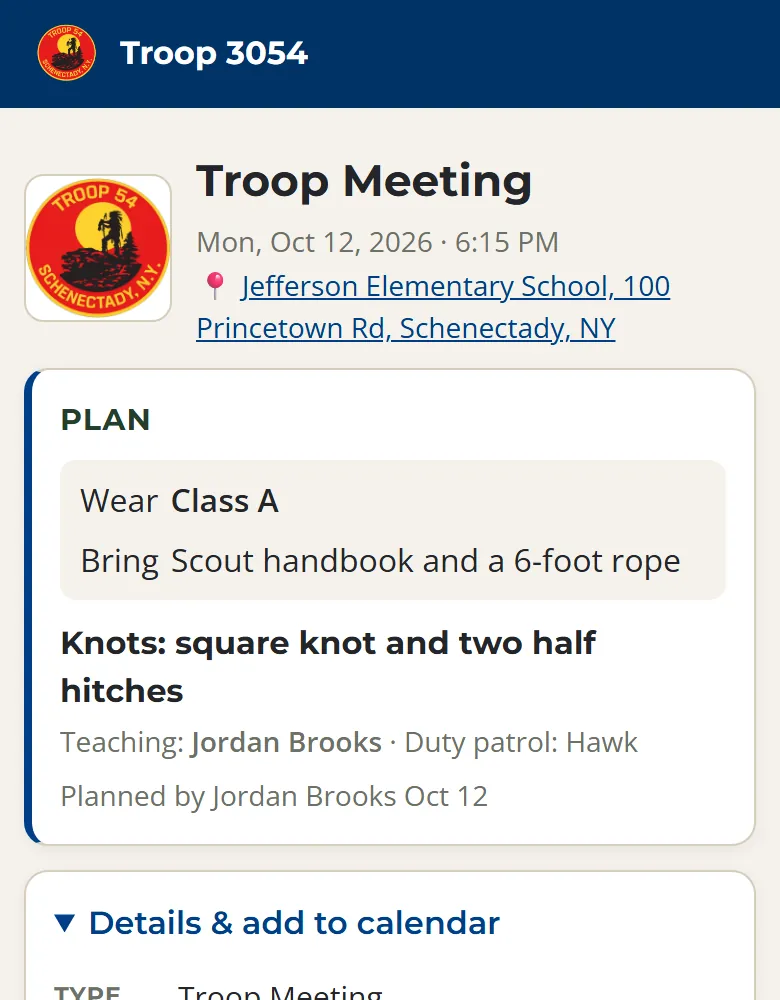
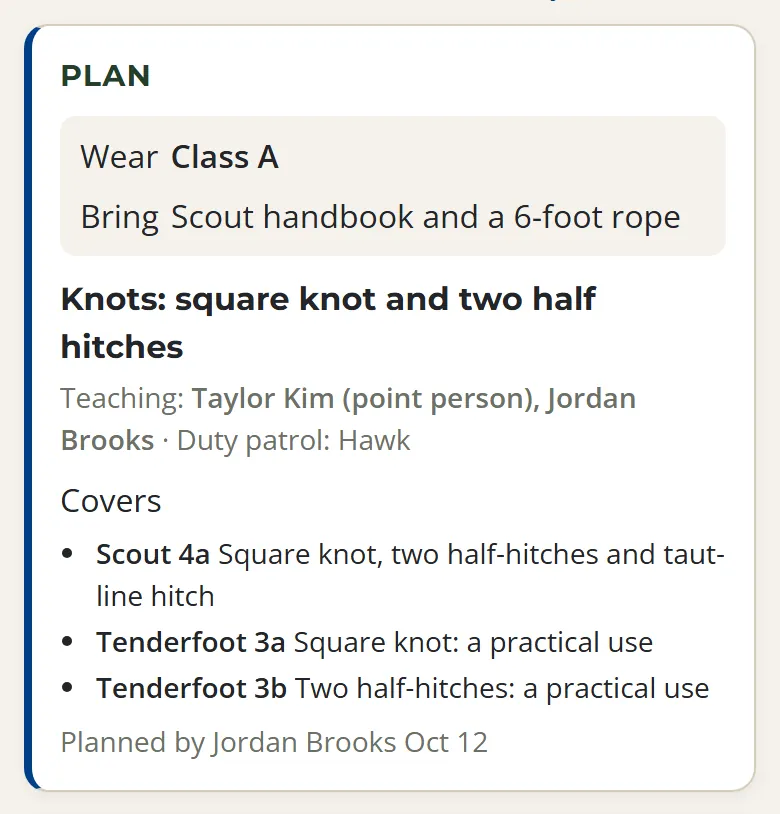
App guide: several teachers, rank requirements, and sign-off
The PLC section covers picking teachers (Scouts, leaders or a guest; the
first Scout or leader is the point person) and the optional rank
requirements a meeting covers. Profile and Scouts explain the "taught at
troop events" list, and leaders get "ready for sign-off". Screenshots
re-shot from the made-up demo troop.

Changed region(s): [[0.0, 0.0, 1.0, 1.0], [0.9538, 0.3686, 0.9846, 0.3993]]

diff --git a/app.html b/app.html
@@ -368,13 +368,13 @@
           <div class="app-step">
             <div>
               <h3>What to wear and bring</h3>
-              <p>When the Scouts have planned a meeting, its <strong>Plan</strong> shows the uniform (Class A or Class B), what to bring, what they're doing, and who's teaching. The uniform and what to bring also show on the <a href="calendar.html">public calendar</a>.</p>
+              <p>When the Scouts have planned a meeting, its <strong>Plan</strong> shows the uniform (Class A or Class B), what to bring, what they're doing, and who's teaching. If it covers rank requirements, they're listed under <strong>Covers</strong>. The uniform and what to bring also show on the <a href="calendar.html">public calendar</a>.</p>
               <h3>Add it to your calendar</h3>
               <p>Open <strong>Details &amp; add to calendar</strong> and tap <strong>Google Calendar</strong> or <strong>Apple / Outlook</strong>. To get every troop event in your phone's calendar at once, tap <strong>Subscribe</strong> on our <a href="calendar.html">calendar page</a>.</p>
             </div>
             <figure class="app-shot">
-              <img src="images/app-guide/meeting-plan.webp" alt="A troop meeting's Plan showing Wear Class A, Bring Scout handbook and a 6-foot rope, the focus on knots, who's teaching, and the duty patrol" width="390" height="500" loading="lazy">
-              <figcaption>A meeting's plan: what to wear and bring, what we're doing, and who's teaching.</figcaption>
+              <img src="images/app-guide/meeting-plan.webp" alt="A troop meeting's Plan showing Wear Class A, Bring Scout handbook and a 6-foot rope, the focus on knots, two Scouts teaching, the duty patrol, and the three rank requirements it covers" width="390" height="407" loading="lazy">
+              <figcaption>A meeting's plan, including the rank requirements it covers.</figcaption>
             </figure>
           </div>
           <div class="app-step">
@@ -427,6 +427,7 @@
             <div>
               <ul>
                 <li><strong>Your Scout's record</strong>: meetings attended, campouts, camping nights, and volunteer hours. Tap a tile to see just those events.</li>
+                <li><strong>Taught at troop events</strong>: rank requirements, Scout through First Class, that were taught at meetings and outings your Scout was at. Taught isn't passed: a leader still tests each one and signs it off in Scoutbook. Requirements for ranks your Scout already holds drop off the list.</li>
                 <li><strong>Set up your Scout's sign-in PIN</strong> so they can sign in on their own.</li>
                 <li><strong>Notifications</strong> for this device.</li>
                 <li><strong>My account</strong>: who's signed in, with <strong>Sign out</strong>, your email addresses, and your PIN.</li>
@@ -434,7 +435,7 @@
               </ul>
             </div>
             <figure class="app-shot">
-              <img src="images/app-guide/profile.webp" alt="A parent's Profile showing their Scout's meetings, campouts, camping nights, and volunteer hours, a button to set up the Scout's sign-in PIN, and recent events" width="390" height="700" loading="lazy">
+              <img src="images/app-guide/profile.webp" alt="A parent's Profile showing their Scout's meetings, campouts, camping nights, and volunteer hours, the Second Class requirements taught at a campout they went to, a button to set up the Scout's sign-in PIN, and recent events" width="390" height="900" loading="lazy">
               <figcaption>A parent's Profile, with their Scout's record.</figcaption>
             </figure>
           </div>
@@ -448,6 +449,7 @@
             <li>Sign in with your <strong>name and PIN</strong>. Ask a parent to set it up from their Profile. If the troop has your own email, Google or an emailed code works too.</li>
             <li>Check <strong>Events</strong> for what to wear and bring.</li>
             <li>Your <strong>Profile</strong> shows your meetings, campouts, camping nights, and volunteer hours.</li>
+            <li>It also lists the rank requirements taught at events you were at. When you're ready, show a leader you can do one, and they'll sign it off.</li>
             <li>Earned a rank? Tap <strong>update rank</strong> on your Profile, and a leader confirms it.</li>
           </ul>
           <p>Everything a Scout can see in the app, their parents can see too.</p>
@@ -461,19 +463,30 @@
           <div class="app-step">
             <div>
               <h3>Plan the month</h3>
-              <p>Tap <strong>Program</strong> at the top (it's in the <strong>Leaders</strong> menu if you have other leader pages too). It opens on <strong>Plan the month</strong>: the next five meetings and any outings in between, with four boxes each. It works best at the PLC's monthly meeting, with one person typing while everyone decides.</p>
+              <p>Tap <strong>Program</strong> at the top (it's in the <strong>Leaders</strong> menu if you have other leader pages too). It opens on <strong>Plan the month</strong>: the next five meetings and any outings in between, with a few boxes each. It works best at the PLC's monthly meeting, with one person typing while everyone decides.</p>
               <ol>
                 <li><strong>What are we doing?</strong> The skill or theme for the night. This is the only box you need.</li>
-                <li><strong>Who's teaching?</strong> The Scout who leads the skill. For an outing, it's who's leading.</li>
+                <li><strong>Who's teaching?</strong> Type a name and pick it from the list. Add as many as you need: Scouts, adult leaders, or a guest (type their name and tap <strong>Add as a guest</strong>). The first Scout or leader is the point person. For an outing, it's who's leading.</li>
                 <li><strong>Bring</strong> and <strong>Wear</strong> (Class A or Class B), if you know them.</li>
                 <li>Tap <strong>Save the month</strong>.</li>
               </ol>
               <p>That's the whole plan: the general idea, not a minute-by-minute schedule. The duty patrol takes turns on its own, and you can pick a different one if you need to. Families see what to wear and bring right away.</p>
-              <p>To plan or change just one meeting or outing, open it and tap <strong>Plan this meeting</strong> or <strong>Edit plan</strong>. It's the same four boxes.</p>
+              <p>To plan or change just one meeting or outing, open it and tap <strong>Plan this meeting</strong> or <strong>Edit plan</strong>. It's the same boxes.</p>
             </div>
             <figure class="app-shot">
-              <img src="images/app-guide/plan-month.webp" alt="Plan the month on the Program page: a meeting and a campout, each with boxes for what we're doing, who's teaching or leading, and what to bring, Class A and Class B buttons, and the duty patrol" width="390" height="800" loading="lazy">
-              <figcaption>Plan the month: four boxes per meeting.</figcaption>
+              <img src="images/app-guide/plan-month.webp" alt="Plan the month on the Program page: a meeting with what we're doing, two Scouts teaching with the first marked point person, what to bring, Class A and Class B buttons, the duty patrol, and three rank requirements picked" width="390" height="800" loading="lazy">
+              <figcaption>Plan the month: the general idea for each meeting.</figcaption>
+            </figure>
+          </div>
+          <div class="app-step">
+            <div>
+              <h3>Rank requirements (optional)</h3>
+              <p>If a meeting teaches part of a rank, open <strong>Rank requirements</strong> under its plan and tick what it covers, Scout through First Class. Once a requirement has been taught, it shows how many Scouts have had it, which helps when you pick what to teach next.</p>
+              <p>Scouts marked present get those requirements as <em>taught</em> on their Profile. Taught isn't passed: a leader still tests each Scout and signs it off in Scoutbook.</p>
+            </div>
+            <figure class="app-shot">
+              <img src="images/app-guide/plan-reqs.webp" alt="A meeting's plan with Rank requirements open: the Tenderfoot requirements grouped by area, each with a checkbox, and 3a ticked" width="390" height="920" loading="lazy">
+              <figcaption>Tick what the meeting covers.</figcaption>
             </figure>
           </div>
           <div class="app-step">
@@ -492,8 +505,18 @@
               <p>Anything still missing a time or a place shows at the bottom, so the PLC can fill it in. Leaders also see a summary and the next 8 weeks of meetings and outings: which ones are planned, how far ahead, and who's teaching, so they know what the PLC needs from them.</p>
             </div>
             <figure class="app-shot">
-              <img src="images/app-guide/program.webp" alt="The leaders' view of the Program page: how many of the next meetings are planned, and the next 8 weeks, each marked Planned or Not planned" width="390" height="740" loading="lazy">
+              <img src="images/app-guide/program.webp" alt="The leaders' view of the Program page: how many of the next meetings are planned, and the next 8 weeks, each marked Planned or Not planned" width="390" height="760" loading="lazy">
               <figcaption>What leaders see: the next 8 weeks at a glance.</figcaption>
+            </figure>
+          </div>
+          <div class="app-step">
+            <div>
+              <h3>Ready for sign-off</h3>
+              <p>Further down, leaders see <strong>Requirements taught: ready for sign-off</strong>. It lists each meeting or outing from the last 8 weeks that covered rank requirements, with the Scouts who were there. Test them when you can, then sign them off in Scoutbook. The app doesn't record sign-offs.</p>
+            </div>
+            <figure class="app-shot">
+              <img src="images/app-guide/signoff.webp" alt="Requirements taught, ready for sign-off: a campout that covered Second Class 2a, 2b, 2c and 2e and a meeting that covered Tenderfoot 4a, 4c and 4d, each with the Scouts who were there" width="390" height="379" loading="lazy">
+              <figcaption>Who to test, and on what.</figcaption>
             </figure>
           </div>
         </section>
